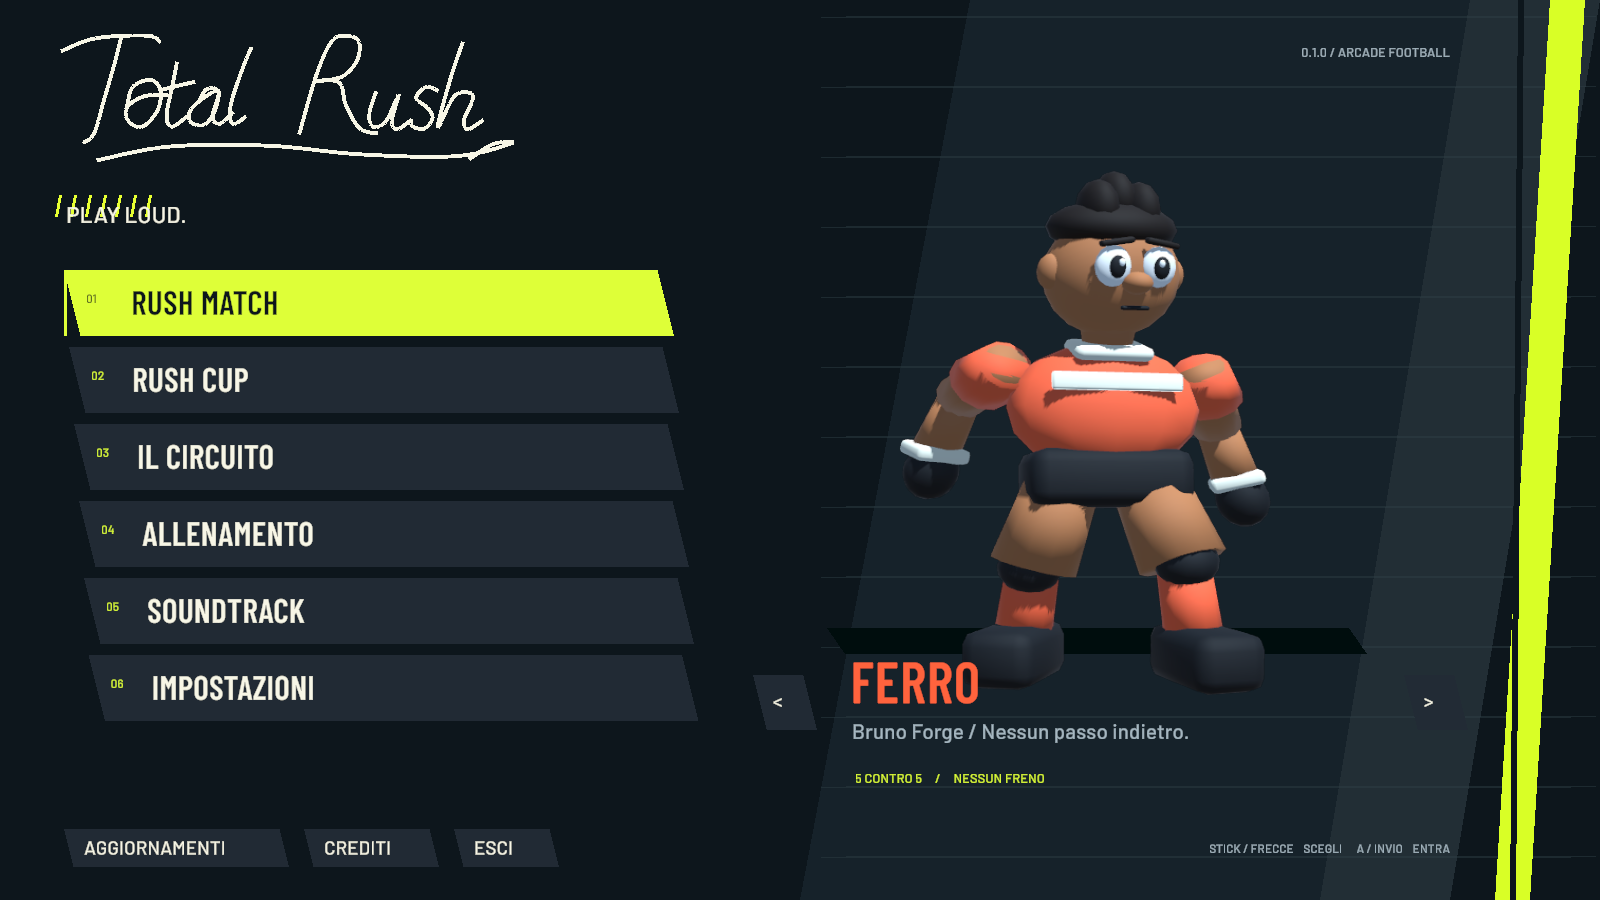
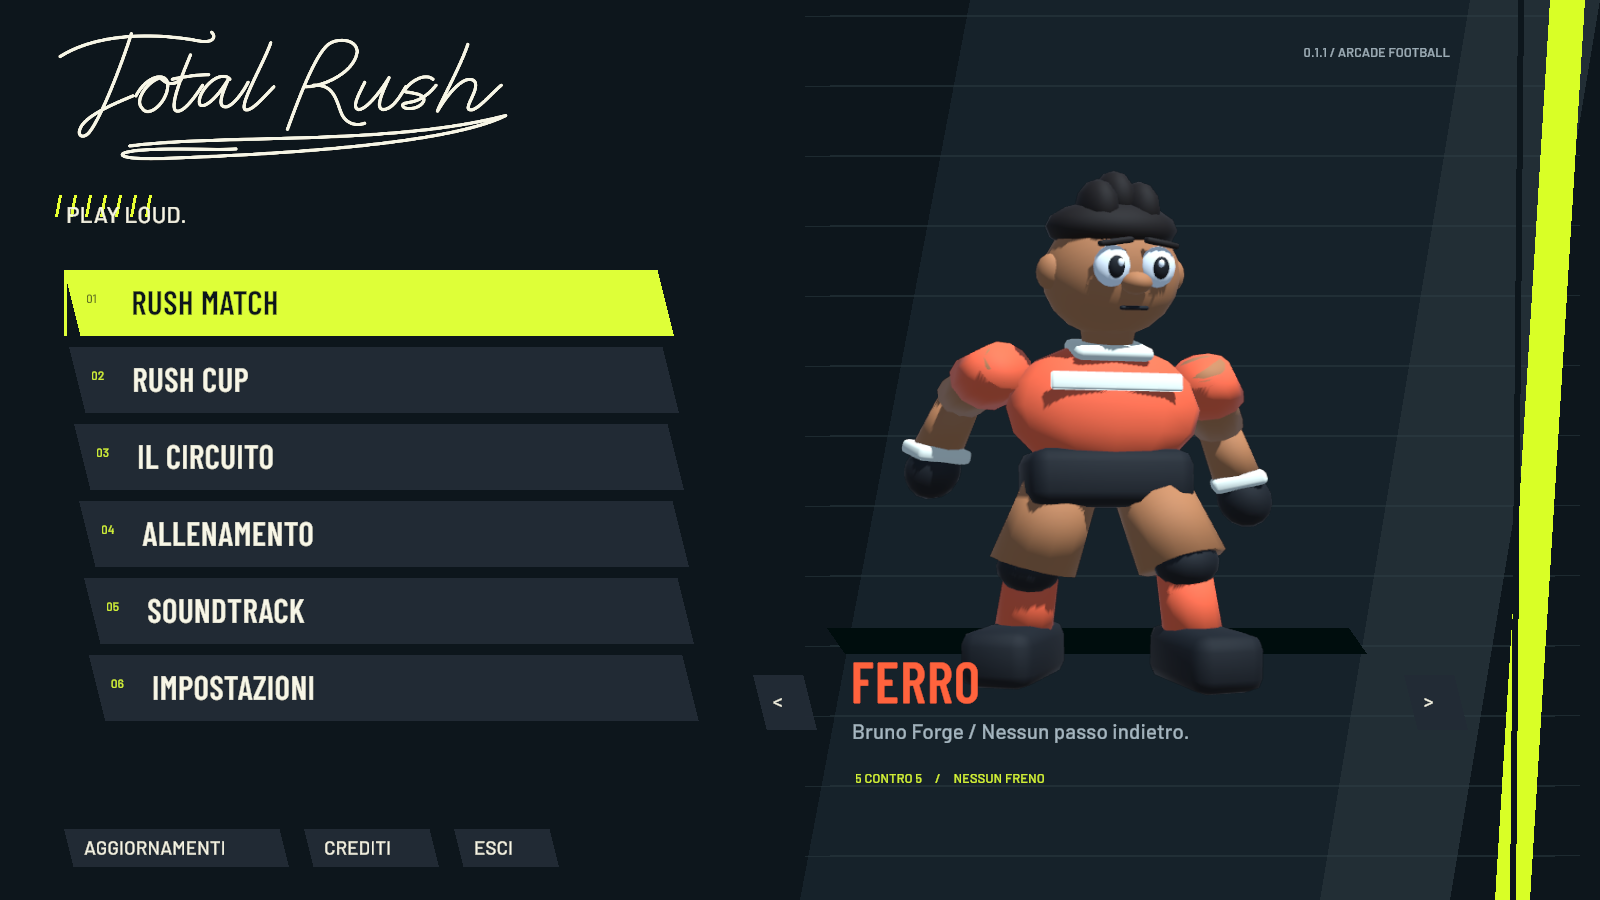
Total Rush 0.1.1: gameplay, personal music and corrected app filenames

diff --git a/README.md b/README.md
@@ -2,8 +2,10 @@
   <img src="docs/assets/total-rush-signature.svg" alt="Total Rush — Play Loud" width="780">
 </p>
 
+<p align="center"><img src="docs/assets/total-rush-icon.png" alt="Icona Total Rush" width="112"></p>
+
 <p align="center"><strong>Calcio arcade. Squadre originali. Nessun freno.</strong></p>
-<p align="center">macOS Apple Silicon · Windows x64 · Versione 0.1.0</p>
+<p align="center">macOS Apple Silicon · Windows x64 · Versione 0.1.1</p>
 
 <p align="center">
   <a href="https://github.com/YooTommy-CH/total-rush/releases/latest"><strong>SCARICA TOTAL RUSH</strong></a>
@@ -56,21 +58,34 @@ Il cursore resta in tempo reale. Il tempismo perfetto scatena un tiro elettrico 
 | Green-Check | K ×3, terzo sul verde | B ×3, terzo sul verde | Cerchio ×3, terzo sul verde |
 | Passaggio alto | L | X | Quadrato |
 | Spallata | Spazio | Y | Triangolo |
-| Cambia rusher | Tab | LB | L1 |
+| Cambia rusher | Tab | LB / stick destro | L1 / stick destro |
+| Scivolata | V | Premi stick destro | Premi R3 |
 | Pausa | Esc | Menu | Options |
 
 Tiri a giro, potenti, rasoterra e trivela: modificatori nella schermata **Impostazioni → Gioco → Comandi**.
 
 ## Download e aggiornamenti
 
-Scarica **[Total Rush 0.1.0](https://github.com/YooTommy-CH/total-rush/releases/tag/v0.1.0)** per macOS Apple Silicon o Windows x64. La build macOS è firmata con Developer ID e notarizzata da Apple. Le vecchie release sono state rimosse: questa è la prima e unica release del nuovo gioco.
+Scarica **[Total Rush 0.1.1](https://github.com/YooTommy-CH/total-rush/releases/tag/v0.1.1)** per macOS Apple Silicon o Windows x64. La build macOS è firmata con Developer ID e notarizzata da Apple. App ed eseguibile si chiamano ora **Total Rush.app** e **Total Rush.exe**.
 
-Il gioco controlla gli aggiornamenti all’apertura: **Aggiorna ora** scarica e verifica il pacchetto, chiude l’app, installa e riapre il gioco. La libreria personale e i salvataggi restano nel profilo del dispositivo. La soundtrack personale, le copertine e il codice sorgente non sono distribuiti in questo repository.
+**Passaggio dalla 0.1.0:** scarica e installa manualmente questa versione una volta, perché sono cambiati i nomi dei pacchetti. Dalla 0.1.1 il gioco controlla gli aggiornamenti all’apertura: **Aggiorna ora** scarica e verifica il pacchetto, chiude l’app, installa e riapre il gioco. La libreria personale e i salvataggi restano nel profilo del dispositivo. La soundtrack personale, le copertine e il codice sorgente non sono distribuiti in questo repository.
+
+## La tua Rush Radio
+
+Nessuna soundtrack inclusa. Seleziona **Soundtrack → Scegli cartella** e collega la tua raccolta:
+
+```
+Total Rush Soundtrack/
+    Canzoni/Brano - Artista.mp3
+    Copertine/Artista - Brano.png
+```
+
+Abbinamento anche per ordine delle parole, maiuscole, accenti e piccole differenze. Le corrispondenze ambigue mantengono la copertina generica. MP3 senza copertina restano riproducibili. I file rimangono sul dispositivo, funzionano offline e usano la dissolvenza fra brani. **Rileggi** aggiorna l’elenco; **Scollega** conserva i tuoi file.
 
 ## Stato della versione
 
 Anteprima giocabile in sviluppo, realizzata con Unity 6.6 e URP. Le immagini sono catture della build del gioco, senza sfondi generati. Squadre, personaggi, simboli e identità sono originali; nessun personaggio o asset Nintendo incluso.
 
-La build macOS è stata eseguita e verificata. La build Windows è compilata e richiede ancora prove su hardware Windows. Il risultato di 60 FPS su M1 di base resta da misurare. Online e multiplayer locale non sono inclusi nella 0.1.0.
+La build macOS è stata eseguita e verificata. La build Windows è compilata e richiede ancora prove su hardware Windows. Il risultato di 60 FPS su M1 di base resta da misurare. Online e multiplayer locale non sono inclusi nella 0.1.1.
 
 Attribuzioni e licenze di animazioni, font e dipendenze sono incluse nell’app. Vedi [CREDITI.md](CREDITI.md).

diff --git a/INSTALLAZIONE.md b/INSTALLAZIONE.md
@@ -1,30 +1,34 @@
 # Installare Total Rush
 
-Scarica **[Total Rush 0.1.0](https://github.com/YooTommy-CH/total-rush/releases/tag/v0.1.0)**. Le precedenti release sono state rimosse.
+Scarica **[Total Rush 0.1.1](https://github.com/YooTommy-CH/total-rush/releases/tag/v0.1.1)**.
 
 
 ## macOS Apple Silicon
 
 1. Scarica il pacchetto macOS ARM64 ed estrailo.
 2. Sposta l’app in Applicazioni o in una cartella in cui puoi scrivere.
-3. Apri l’app: il gioco si presenta come **Total Rush**.
+3. Apri **Total Rush.app**.
 
-La build è nativa ARM64 e usa Metal. La build è firmata con Developer ID e notarizzata da Apple. Non serve Rosetta. Il nome del pacchetto e della cartella `.app` può conservare PITCHONE come nome tecnico interno; puoi rinominare l’app Total Rush.app dopo l’estrazione.
+La build è nativa ARM64 e usa Metal. La build è firmata con Developer ID e notarizzata da Apple. Non serve Rosetta.
 
 ## Windows 10/11 x64
 
 1. Scarica il pacchetto Windows ed estrailo in una cartella dedicata.
 2. Mantieni insieme eseguibile, cartella dei dati e tutte le librerie.
-3. Avvia `PITCHONE.exe`: il nome visualizzato dal gioco è **Total Rush**.
+3. Avvia `Total Rush.exe` nella cartella `Total Rush`.
 
 Non estrarre i singoli file direttamente sul Desktop. La build usa Direct3D 11 ed è compilata per x64; non è ancora stata provata su un PC Windows in questa sessione di rilascio.
 
 ## Aggiornare dal gioco
 
-All’apertura viene controllata l’ultima versione stabile. Premi **Aggiorna ora**, attendi la verifica e lascia che l’app si chiuda e si riapra. Il pulsante **Aggiornamenti** nel menu permette di avviare un controllo manuale.
+Se provieni dalla **0.1.0**, installa manualmente la 0.1.1 una volta: i vecchi pacchetti avevano un altro nome.
+
+Dalla 0.1.1 all’apertura viene controllata l’ultima versione stabile. Premi **Aggiorna ora**, attendi la verifica e lascia che l’app si chiuda e si riapra. Il pulsante **Aggiornamenti** nel menu permette di avviare un controllo manuale.
 
 La copia precedente viene conservata per il ripristino. I file delle carriere della vecchia simulazione restano separati dalle carriere Rush. La libreria della soundtrack non viene sostituita.
 
 ## Soundtrack personale
 
-La raccolta personale viene letta dalla libreria del dispositivo e funziona offline. MP3 e copertine non sono inclusi nei pacchetti pubblici. Le nuove installazioni possono usare i suoni originali del gioco senza quella raccolta.
+Nessuna soundtrack inclusa. Crea `Total Rush Soundtrack` con le sottocartelle `Canzoni` (MP3) e `Copertine` (PNG/JPG/JPEG). Selezionala nel gioco con **Soundtrack → Scegli cartella**. Le copertine sono abbinate per nome o per parole anche invertendo artista e brano. I casi ambigui usano un’immagine generica. La cartella deve restare disponibile sul dispositivo; non serve internet.
+
+**Rileggi** rileva i cambiamenti. **Scollega** non elimina i file originali.

diff --git a/CHANGELOG.md b/CHANGELOG.md
@@ -1,5 +1,18 @@
 # Novità
 
+## Total Rush 0.1.1
+
+- Cambio giocatore senza palla e scelta direzionale con lo stick destro.
+- Scivolate con contatto, stamina, recupero e intervallo fra tentativi.
+- Posizioni del calcio d’inizio corrette e ripartenza a chi subisce il gol.
+- Movimento analogico, frenata e pose di camminata, corsa e tiro riviste; passaggio del controllo al contatto reale.
+- App, eseguibili e pacchetti rinominati Total Rush.
+- Rimossa la raccolta musicale automatica. Importazione della cartella personale Canzoni/Copertine, abbinamento per nome o parole, offline e crossfade.
+- Dalla 0.1.0 è necessario un download manuale una tantum per il cambio dei nomi dei pacchetti.
+
+- Firma originale ridisegnata con curve continue, prendendo come riferimento stilistico la [firma del sito Project Sunshine](https://theprojectsunshine.com/it/about/). Icona separata con un simbolo geometrico a spirale, con gradiente prismatico su fondo antracite, per Mac e Windows.
+- Rimossi i suggerimenti persistenti dei tasti da intro, menu, HUD, allenamenti e Green-Check. La pagina Comandi resta nelle impostazioni.
+
 ## Total Rush 0.1.0 — prima release
 
 Calcio arcade con otto squadre originali, dodici modelli cartooneschi, arena 5 contro 5, spallate, Green-Check in slow motion, menu animato, firma e icone originali.
